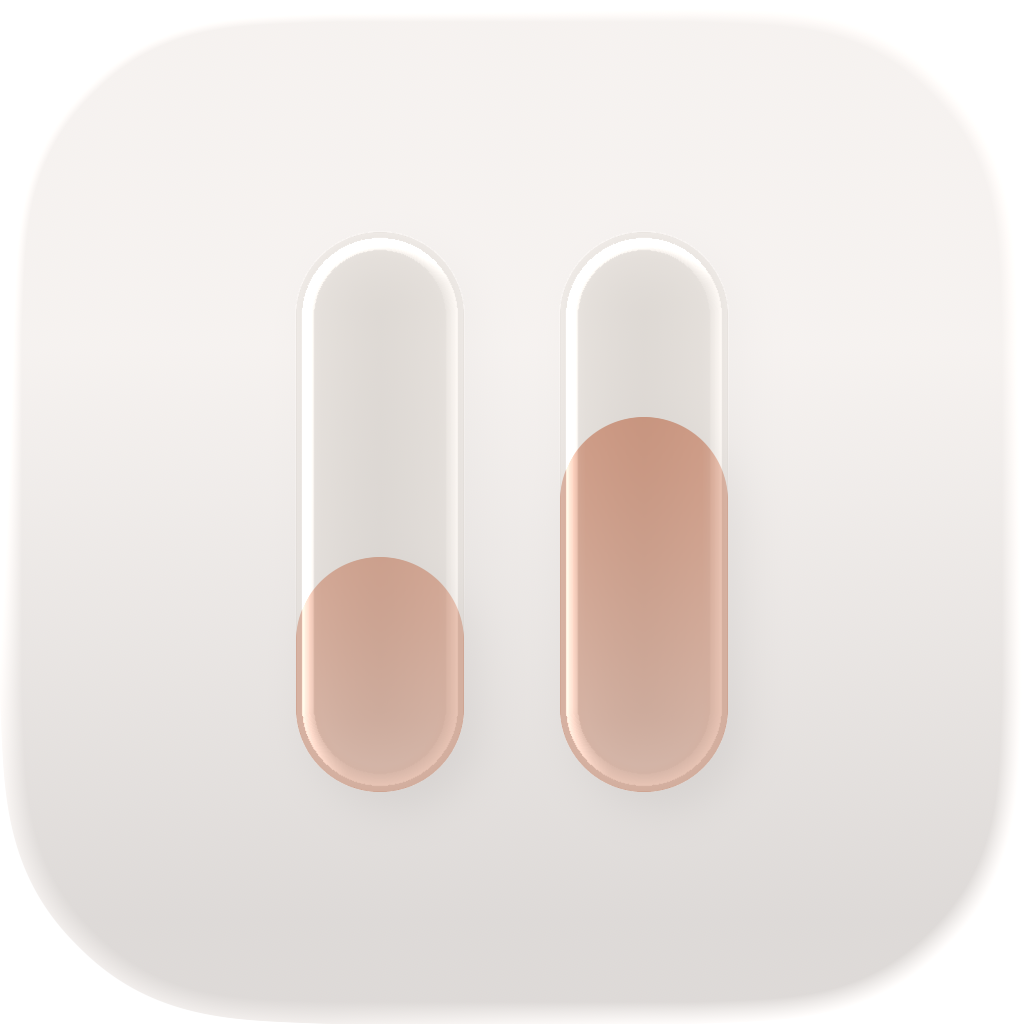
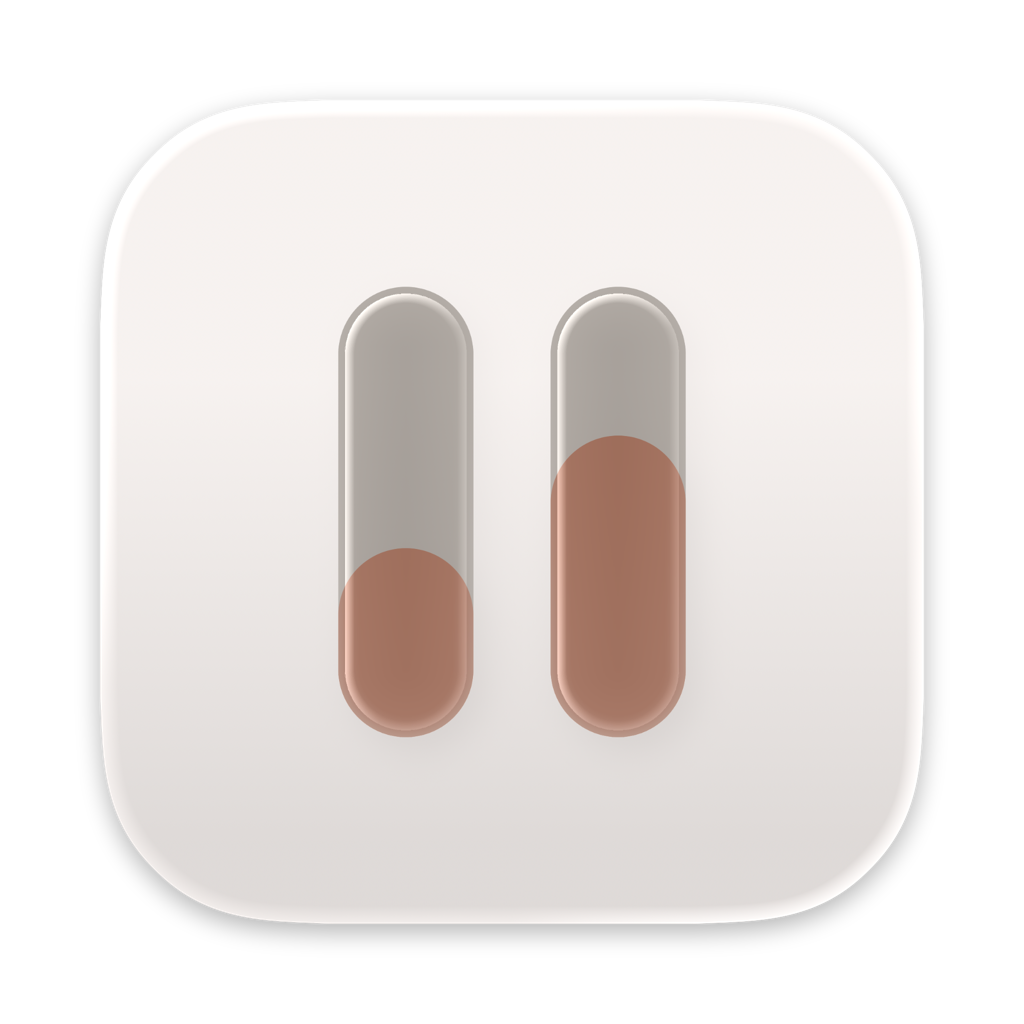
fix: address the PR review — guards, an inert CI check, and legibility
Nine findings from an independent review of this branch, plus one it did not
find. Verified rather than taken on trust.

Real defects:

- The CLT-arm CI assertion was inert. Bash exempts a command whose status is
  inverted with `!` from set -e, so `! plutil -extract CFBundleIconName` passed
  on exactly the bundle it exists to reject. Written as an if/exit now, and
  checked against a bundle that lies.
- `sips` exits 0 when its input does not exist, and again on a truncated PNG,
  rendering partial data at the requested size. Neither shows up in the exit
  status or the output's dimensions, so a missing source silently reused stale
  intermediates and shipped the previous icon under a green build. The source is
  now validated up front, including the trailing PNG IEND chunk.
- The `[[ -f Assets.car ]]` guard could not catch actool selecting no app icon:
  a `--app-icon` naming an asset the document lacks still produces a car full of
  layers, exit 0, and an empty partial plist. It guards on the partial plist now
  and writes the name actool reports rather than an assumed APP_NAME.

The inset rationale was overstated. It was asserted as measured fact that a
full-bleed source renders a quarter oversized; that is true on macOS 13-15, which
draw the .icns as authored, but macOS 26 re-masks legacy .icns content into the
system tile — inset, full-bleed and over-inset bundles all render to an identical
[…]

Changed region(s): [[0.0, 0.5312, 1.0, 1.0], [0.5312, 0.2812, 0.7188, 0.7812], [0.2812, 0.2812, 0.4688, 0.7812]]

diff --git a/CLAUDE.md b/CLAUDE.md
@@ -200,34 +200,61 @@ The `.icns` is therefore byte-identical whether or not Xcode is installed (verif
 both paths), so a CLT-only contributor and CI ship the same icon and "it looks different on my
 machine" cannot happen.
 
-Four things were measured, and each is a trap:
+### Editing the icon
 
-- **The export is full-bleed, so it must be inset before anything is downscaled.** Icon Composer
-  writes exports edge to edge — alpha 255 at the top edge centre, 0 only in the corners — because on
-  macOS 26 the system supplies the mask and the shadow. Feeding that straight to `sips` is the obvious
-  recipe and it is wrong: the art fills the whole tile and the icon renders about a quarter larger
-  than every other app in Finder. `sips -z 824 824` then `--padToHeightWidth 1024 1024` puts it on
-  Apple's 824-of-1024 grid; `sips` pads with transparency, so no compositing tool is needed. CI
-  asserts the artwork spans ~80% of its tile, because this regression passes every other check.
-- **Every size is downscaled from one inset master**, not inset individually. That is what keeps the
-  margin proportional at 16px as well as at 1024.
+`assets/Headroom.icon` is the source of truth, and **`assets/icon-1024.png` is a committed render of
+it**, not a hand-exported picture. Change the document, then run `./assets/render-icon.sh` and commit
+both. The script needs Xcode, which is not a new burden — Icon Composer, the only thing that edits the
+document, ships with Xcode too.
+
+It renders through `actool` rather than Icon Composer's *File ▸ Export* on purpose. The export is
+full-bleed, because on macOS 26 the system supplies the mask and the shadow; `actool` instead renders
+the icon the way macOS composites it, already on Apple's 824-of-1024 grid and with the shadow baked
+in. Committing the on-grid render means `build.sh` only has to downscale. **Do not add an inset step
+to `build.sh`** — the source is already inset, and doing it twice makes the icon visibly small.
+
+### Traps, each measured
+
+- **The `.icns` geometry only matters on macOS 13–15.** Those draw the `.icns` as authored, so a
+  full-bleed source really does render about a quarter larger than every other app. macOS 26 does
+  **not**: it re-masks legacy `.icns` content into the system tile, and inset, full-bleed and
+  deliberately over-inset bundles all render to an identical 83.59% bounding box there, the same as
+  Calculator's. So this regression is invisible on a current Mac, which is exactly why CI asserts the
+  artwork spans ~80% of its tile. Don't "verify" the inset by looking at your own Dock.
+- **`sips` reports success on input it never read.** It exits 0 when the file does not exist (printing
+  only a warning) *and* on a truncated PNG, rendering partial data at the requested size. Neither
+  shows up in an exit status or in the output's dimensions. `build.sh` therefore validates the source
+  up front: it exists, its last 8 bytes are the PNG `IEND` chunk and its constant CRC
+  (`49454e44ae426082` — truncation is what that catches), and it is 1024 wide.
+- **`actool` exits 0 when it renders nothing, so `Assets.car` is not the signal.** If `--app-icon`
+  names an asset the document doesn't contain — rename `Headroom.icon`, or change `APP_NAME`, and it
+  will — `actool` still writes an `Assets.car` full of layers with no icon in it, and an *empty*
+  partial plist. Guarding on the file's existence passes there and sets `CFBundleIconName` pointing at
+  nothing. The guard is `plutil -extract CFBundleIconName` on the partial plist, and the value written
+  into `Info.plist` is the one `actool` reports rather than an assumed `$APP_NAME`.
 - **`actool` must compile to a staging directory.** It also writes its own `Headroom.icns`, so
   compiling straight into `Contents/Resources` would overwrite the complete ten-size family with a
   four-size subset. `--standalone-icon-behavior` does not turn that output off — `none` still emits
-  it, only smaller. Only `Assets.car` is copied out. Its render is arguably the nicer of the two
-  (Apple's renderer, working from the layered source, and it bakes in a drop shadow this pipeline has
-  no way to reproduce), but taking it would make the bundle differ by build machine.
-- **`build.sh` is `#!/bin/bash`**, and the size table is iterated with `set -- $SPEC`, which
-  word-splits there. It does **not** split under `zsh`, where the same loop silently writes one file
-  named `.png`. Don't paste that loop into a shell to test it.
+  it, only smaller. Only `Assets.car` is copied out. Taking `actool`'s `.icns` instead would also make
+  the bundle differ by build machine: its `Assets.car` is not even reproducible between two runs on
+  one machine, since it embeds a fresh timestamp and fresh rendition UUIDs each time. The `.icns`
+  determinism claim above is about the `.icns` alone.
+- **The DMG volume icon needs the flag, not just the file.** `.VolumeIcon.icns` at the volume root
+  does nothing on its own; the root also needs Finder's custom-icon bit. `SetFile -a C` on the
+  *staging folder* sets it there, but `hdiutil create -srcfolder` builds a fresh filesystem and does
+  not carry that FinderInfo onto the volume, so it is silently lost — `GetFileInfo -a` on the mounted
+  result comes back all-lowercase. It has to be set on the mounted image, which is why the DMG is
+  built read-write, flagged, then converted to UDZO.
+- **Bash-only word splitting was removed, not documented around.** The size table used `set -- $SPEC`,
+  which splits under bash but *not* under zsh — pasting that loop into a shell silently writes one
+  file named `.png`. It is now `while read -r SIZE NAME`, which also stops clobbering the script's own
+  positional parameters.
 
-The two source files live in `assets/`. `Headroom.icon` is the one to edit; `icon-1024.png` is its
-flattened export and has to be re-exported from Icon Composer to match. Intermediates land in
-`build/`, which `.gitignore` already covers.
+Intermediates land in `build/`, which `.gitignore` already covers.
 
-Cost, since it is a large fraction of a small app: `Assets.car` is ~1.4 MB and the `.icns` ~940 KB.
-The `.icns` is big because the artwork is a soft gradient render in Display P3, not because something
-is packaged wrong.
+Cost, since it is a large fraction of a small app: the binary is ~579 KB, the `.icns` ~607 KB and
+`Assets.car` ~1.4 MB, so the icon is roughly three quarters of a ~2.6 MB bundle. That is inherent to a
+soft gradient render, not a packaging mistake.
 
 To check what macOS actually resolves rather than what is merely on disk, ask the icon services —
 `NSWorkspace.shared.icon(forFile:)` on the built bundle, in a scratch script. A bundle with no icon
@@ -239,6 +266,21 @@ by-eye version: the icon then shows up in Login Items and on any notification. D
 On macOS 26 a bundle containing `Assets.car` renders the *layered* icon, so the `.icns` fallback is
 only exercised by a CLT-only build. `DEVELOPER_DIR=/Library/Developer/CommandLineTools ./build.sh`
 produces one without uninstalling anything, and is how both tiers get tested on one machine.
+
+### Light and dark
+
+`icon.json` declares no dark or tinted variant and does not need to: `"fill": {"automatic-gradient":
+…}` is the feature that derives them. `assetutil --info` on the compiled car shows all three
+appearances registered, with Aqua and Tintable referencing the declared cream gradient while
+**DarkAqua references a two-stop grey ramp 0.192 → 0.078 that `actool` generated itself**. The two SVG
+layer groups are shared byte-for-byte across all three.
+
+What you cannot conclude from that is how it looks on screen, and the obvious checks don't work.
+`NSWorkspace.shared.icon(forFile:)` returns the default rendition no matter the appearance — verified
+against Notes, Reminders and System Settings, which come back byte-identical with
+`NSApp.appearance` genuinely flipped, so a headless script cannot observe the switch at all. A `.icns`
+has no appearance variants in the first place, so on macOS 13–25 the icon is necessarily the same in
+both modes.
 
 ## Testing
 

diff --git a/CHANGELOG.md b/CHANGELOG.md
@@ -41,11 +41,13 @@ First release.
 - `./build.sh` produces a universal (arm64 + x86_64) ad-hoc signed bundle with no Xcode project and
   no third-party dependencies; `--dmg` packages an installer image.
 - **An app icon** — two gauge tracks with Anthropic-orange fills, echoing the dropdown's progress
-  bars. Headroom has no Dock tile and no window, so this is what Finder, the DMG, notification
-  banners, Login Items and the Keychain prompt show. Built from `assets/icon-1024.png` with `sips`
-  and `iconutil`, so the Command Line Tools remain enough to build; when Xcode is present,
-  `assets/Headroom.icon` is also compiled with `actool` so macOS 26 and later render the layered
-  icon. The `.icns` is identical either way.
+  bars. Headroom has no Dock tile and no window, so this is what Finder, notification banners, Login
+  Items and the Keychain prompt show. Built from `assets/icon-1024.png` with `sips` and `iconutil`,
+  so the Command Line Tools remain enough to build; when Xcode is present, `assets/Headroom.icon` is
+  also compiled with `actool` so macOS 26 and later render the layered icon, including the dark and
+  tinted appearances it derives. The `.icns` is identical either way.
+- The DMG carries a **volume icon**, so the window you drag from shows Headroom rather than a generic
+  white disk.
 
 - **The dropdown is a panel, not a greyed-out menu.** Each limit gets a small-caps heading with its
   reset time, the percentage alongside a countdown, and a slim progress bar in Anthropic orange.

diff --git a/assets/README.md b/assets/README.md
@@ -1,11 +1,17 @@
 Screenshots and the hero GIF (menu bar + open dropdown) live here, referenced from the root README.
 
-The app icon's sources live here too, and `build.sh` reads both on every build:
+The app icon's sources live here too:
 
 - `Headroom.icon` — the Icon Composer document, and **the source of truth**. Edit this one.
-- `icon-1024.png` — its flattened export, which is what the `.icns` is rendered from. It does not
-  update itself; re-export it from Icon Composer after changing the document, or the two will
-  disagree about what the icon looks like.
+- `icon-1024.png` — a committed *render* of that document, not a hand-made export. `build.sh`
+  downscales it into the `.icns`, and on the Command-Line-Tools-only path it is the only icon input —
+  `Headroom.icon` is never read there, because compiling it needs Xcode.
+- `render-icon.sh` — regenerates the PNG from the document. Run it after any change to
+  `Headroom.icon` and commit both, or the two build tiers will disagree about what the icon looks
+  like.
 
-See "The app icon" in `CLAUDE.md` for how each is used, and for why the export is inset onto Apple's
-grid before it is downscaled.
+`render-icon.sh` needs Xcode, which costs nothing extra: Icon Composer ships with Xcode, so anyone
+able to edit the document can already run it.
+
+See "The app icon" in `CLAUDE.md` for why the render comes from `actool` rather than Icon Composer's
+own export, and why `build.sh` must not inset the result a second time.
